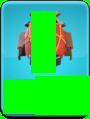
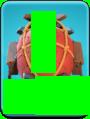
fix(cards): 校准飞艇卡面画布与实机尺寸
飞艇使用原始 166×180 肖像画布，调整战斗卡面位置和大小，避免普通兵正方形留白缩小飞艇。实机在 0.95 阈值下以 0.969 命中并投放，新增有效卡与耗尽灰卡回归截图。

Changed region(s): [[0.0667, 0.0756, 0.9333, 0.6807]]

diff --git a/scripts/refresh-cards/export_cards.py b/scripts/refresh-cards/export_cards.py
@@ -154,6 +154,9 @@ SPELL_FACE_BOX = (2.5, 24.4, 77, 99)
 SIEGE_FACE_BOX = (1.5, 9, 78.5, 86)
 # 英雄肖像的可见网格略有差异，但共享同一个 166×225 的 SC 画布。
 HERO_ICON_BOUNDS = (-83, -144.5, 83, 80.5)
+# 飞艇肖像的原始画布是 166×180，不能套普通兵的正方形留白。
+BLIMP_ICON_BOUNDS = (-83, -128, 83, 52)
+BLIMP_FACE_BOX = (5.35, 12.85, 74.65, 82.15)
 # 数量、等级等动态内容由 MAAFW 的 green_mask 跳过。
 UNIT_MASKS = ((0.39, 0.03, 0.95, 0.2), (0.06, 0.68, 0.4, 0.91))
 HERO_MASKS = ((0.03, 0.06, 0.43, 0.36), (0.05, 0.68, 0.38, 0.93))
@@ -284,14 +287,19 @@ def render_cards(sc, out):
                 if not face_meshes:
                     raise ValueError(f"{card.name} 的卡面图层不可绘制：{card.symbol}")
                 face_bounds = renderer.bounds(face_meshes, obj_id)
-                if group in ("Unit", "Siege"):
+                selected_face_box = face_box
+                if group == "Siege" and card.name == "BattleBlimp":
+                    face_bounds = BLIMP_ICON_BOUNDS
+                    selected_face_box = BLIMP_FACE_BOX
+                elif group in ("Unit", "Siege"):
                     face_bounds = unit_icon_bounds(face_bounds)
                 elif group == "Hero":
                     face_bounds = HERO_ICON_BOUNDS
                 layer_meshes, bounds = backgrounds[key]
                 image = compose_card(renderer, layer_meshes, bounds, face_meshes,
                                      face_bounds, CARD_SCALE,
-                                     face_box, masks + card.extra_masks)
+                                     selected_face_box,
+                                     masks + card.extra_masks)
                 image.save(group_stage / f"{card.name}.png")
         for group, cards, *_ in CARD_GROUPS:
             target = out / group
@@ -362,7 +370,7 @@ def render_army_cards(sc, out):
                 current_base = list(renderer.meshes(exports["train_item_new"], layer=1))
                 renderer.draw_meshes(current, current_base, renderer.bounds(current_base, 0))
                 icon = Image.new("RGBA", (108, 108))
-                current_bounds = (-83, -128, 83, 52) if card.name == "BattleBlimp" else unit_icon_bounds(renderer.bounds(face, 0))
+                current_bounds = BLIMP_ICON_BOUNDS if card.name == "BattleBlimp" else unit_icon_bounds(renderer.bounds(face, 0))
                 renderer.draw_meshes(icon, face, current_bounds)
                 current.alpha_composite(icon, (4, 4))
                 current = current.convert("RGB")
